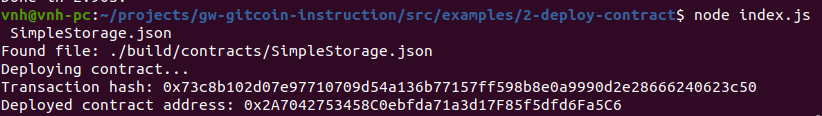
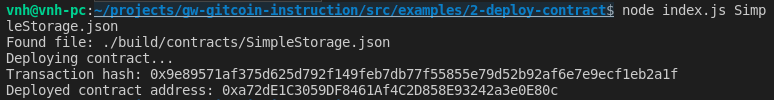
update task2

diff --git a/task-2/README.md b/task-2/README.md
@@ -6,8 +6,8 @@ A screenshot of the console output immediately after you have successfully deplo
 
 The transaction hash from the contract deployment (in text format).
 
-- Transaction hash: 0x73c8b102d07e97710709d54a136b77157ff598b8e0a9990d2e28666240623c50
+- Transaction hash: 0x9e89571af375d625d792f149feb7db77f55855e79d52b92af6e7e9ecf1eb2a1f
 
 The deployed contract address from the contract deployment (in text format).
 
-- Deployed contract address: 0x2A7042753458C0ebfda71a3d17F85f5dfd6Fa5C6
+- Deployed contract address: 0xa72dE1C3059DF8461Af4C2D858E93242a3e0E80c
